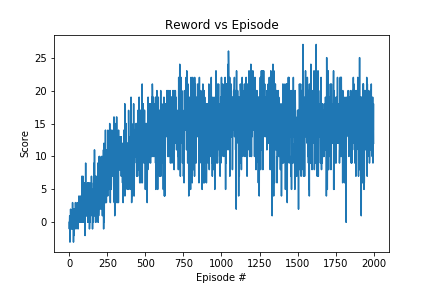
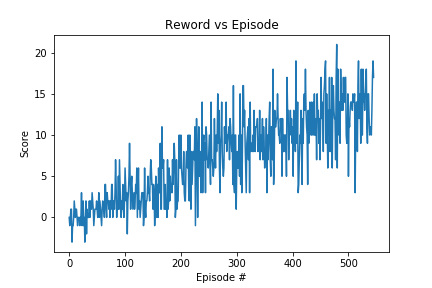
update

diff --git a/report.md b/report.md
@@ -1,0 +1,58 @@
+## Project 1: Navigation
+
+### Learning Algorithm
+The learning algorithm implemented in this project is Deep Q-Networks (DQN).   
+The networks consists one input layer, one hidden layer and one output layer. The input to the neural network is a vector with length of 37 followed by application of a rectifier nonlinearity. The hidden layer is a fully connection layer and applies a rectifier nonlinearity. The output layer is a fully-connected linear layer with four output for each valid action.  
+The network was trianed with the Adam algorithm with minibatches of size 32. The behaviour policy during training was e-greedy with e annealed linearly from 1.0 to 0.01 with discount rate 0.995, and fixed at 0.01 thereafter. The table 1 shows all hyperparameters in this algorithm.  
+Here is the pseudocode:
+```
+Initialize hyperparameters
+Initialize replay memory D to capacity N
+Initialize action-value function Q with random weights h
+Initialize target action-value function Q^ with weights h^=h
+For episode = 1, M do
+    init env and get the init state S;
+    For t = 1,T do
+        With probability e select a random action a; otherwise select action with max Q value generated from dqn networks;
+        Execute action a in emulator and observe reward r, next state Sn, Done;
+        Set state = next_state;
+        Store action-state-reword paris in memory D;
+        if UPDATE_NETWORKS:
+            sample a minibatch of experience tuples from memory D;
+            Get max predicted Q values (for next states) from target model;
+            Compute Q targets for current states;
+            Get expected Q values from local model;
+            Compute loss;
+            Minimize the loss;
+            Update local model parameters h;
+        if Done:
+            break;
+    End For
+End For
+```
+
+| Hyperparameters   |      value      |
+|----------|:-------------:|------:|
+| replay buffer size |  100000 |
+| minibatch size |    32   |
+| discount factor | 0.99 |
+| soft update of target parameters | 1e-3 |
+| learning rate  | 5e-4 |
+| eps_start  | 1 |
+| eps_end  | 0.01 |
+| eps_decay  | 0.995 |
+| n_episodes  | 2000 |
+| max_t  | 1000 |  
+
+## Result
+![avatar](plot.png)
+Environment solved in 446 episodes!	Average Score: 13.02 
+
+## Future Work  
+Here are some techniques may be useful to improve the performance:
+- Double DQN
+- Dueling DQN
+- Using Prioritized Experience Replay
+- Learning from multi-step bootstrap targets
+- Distributional DQN
+- Noisy DQN
